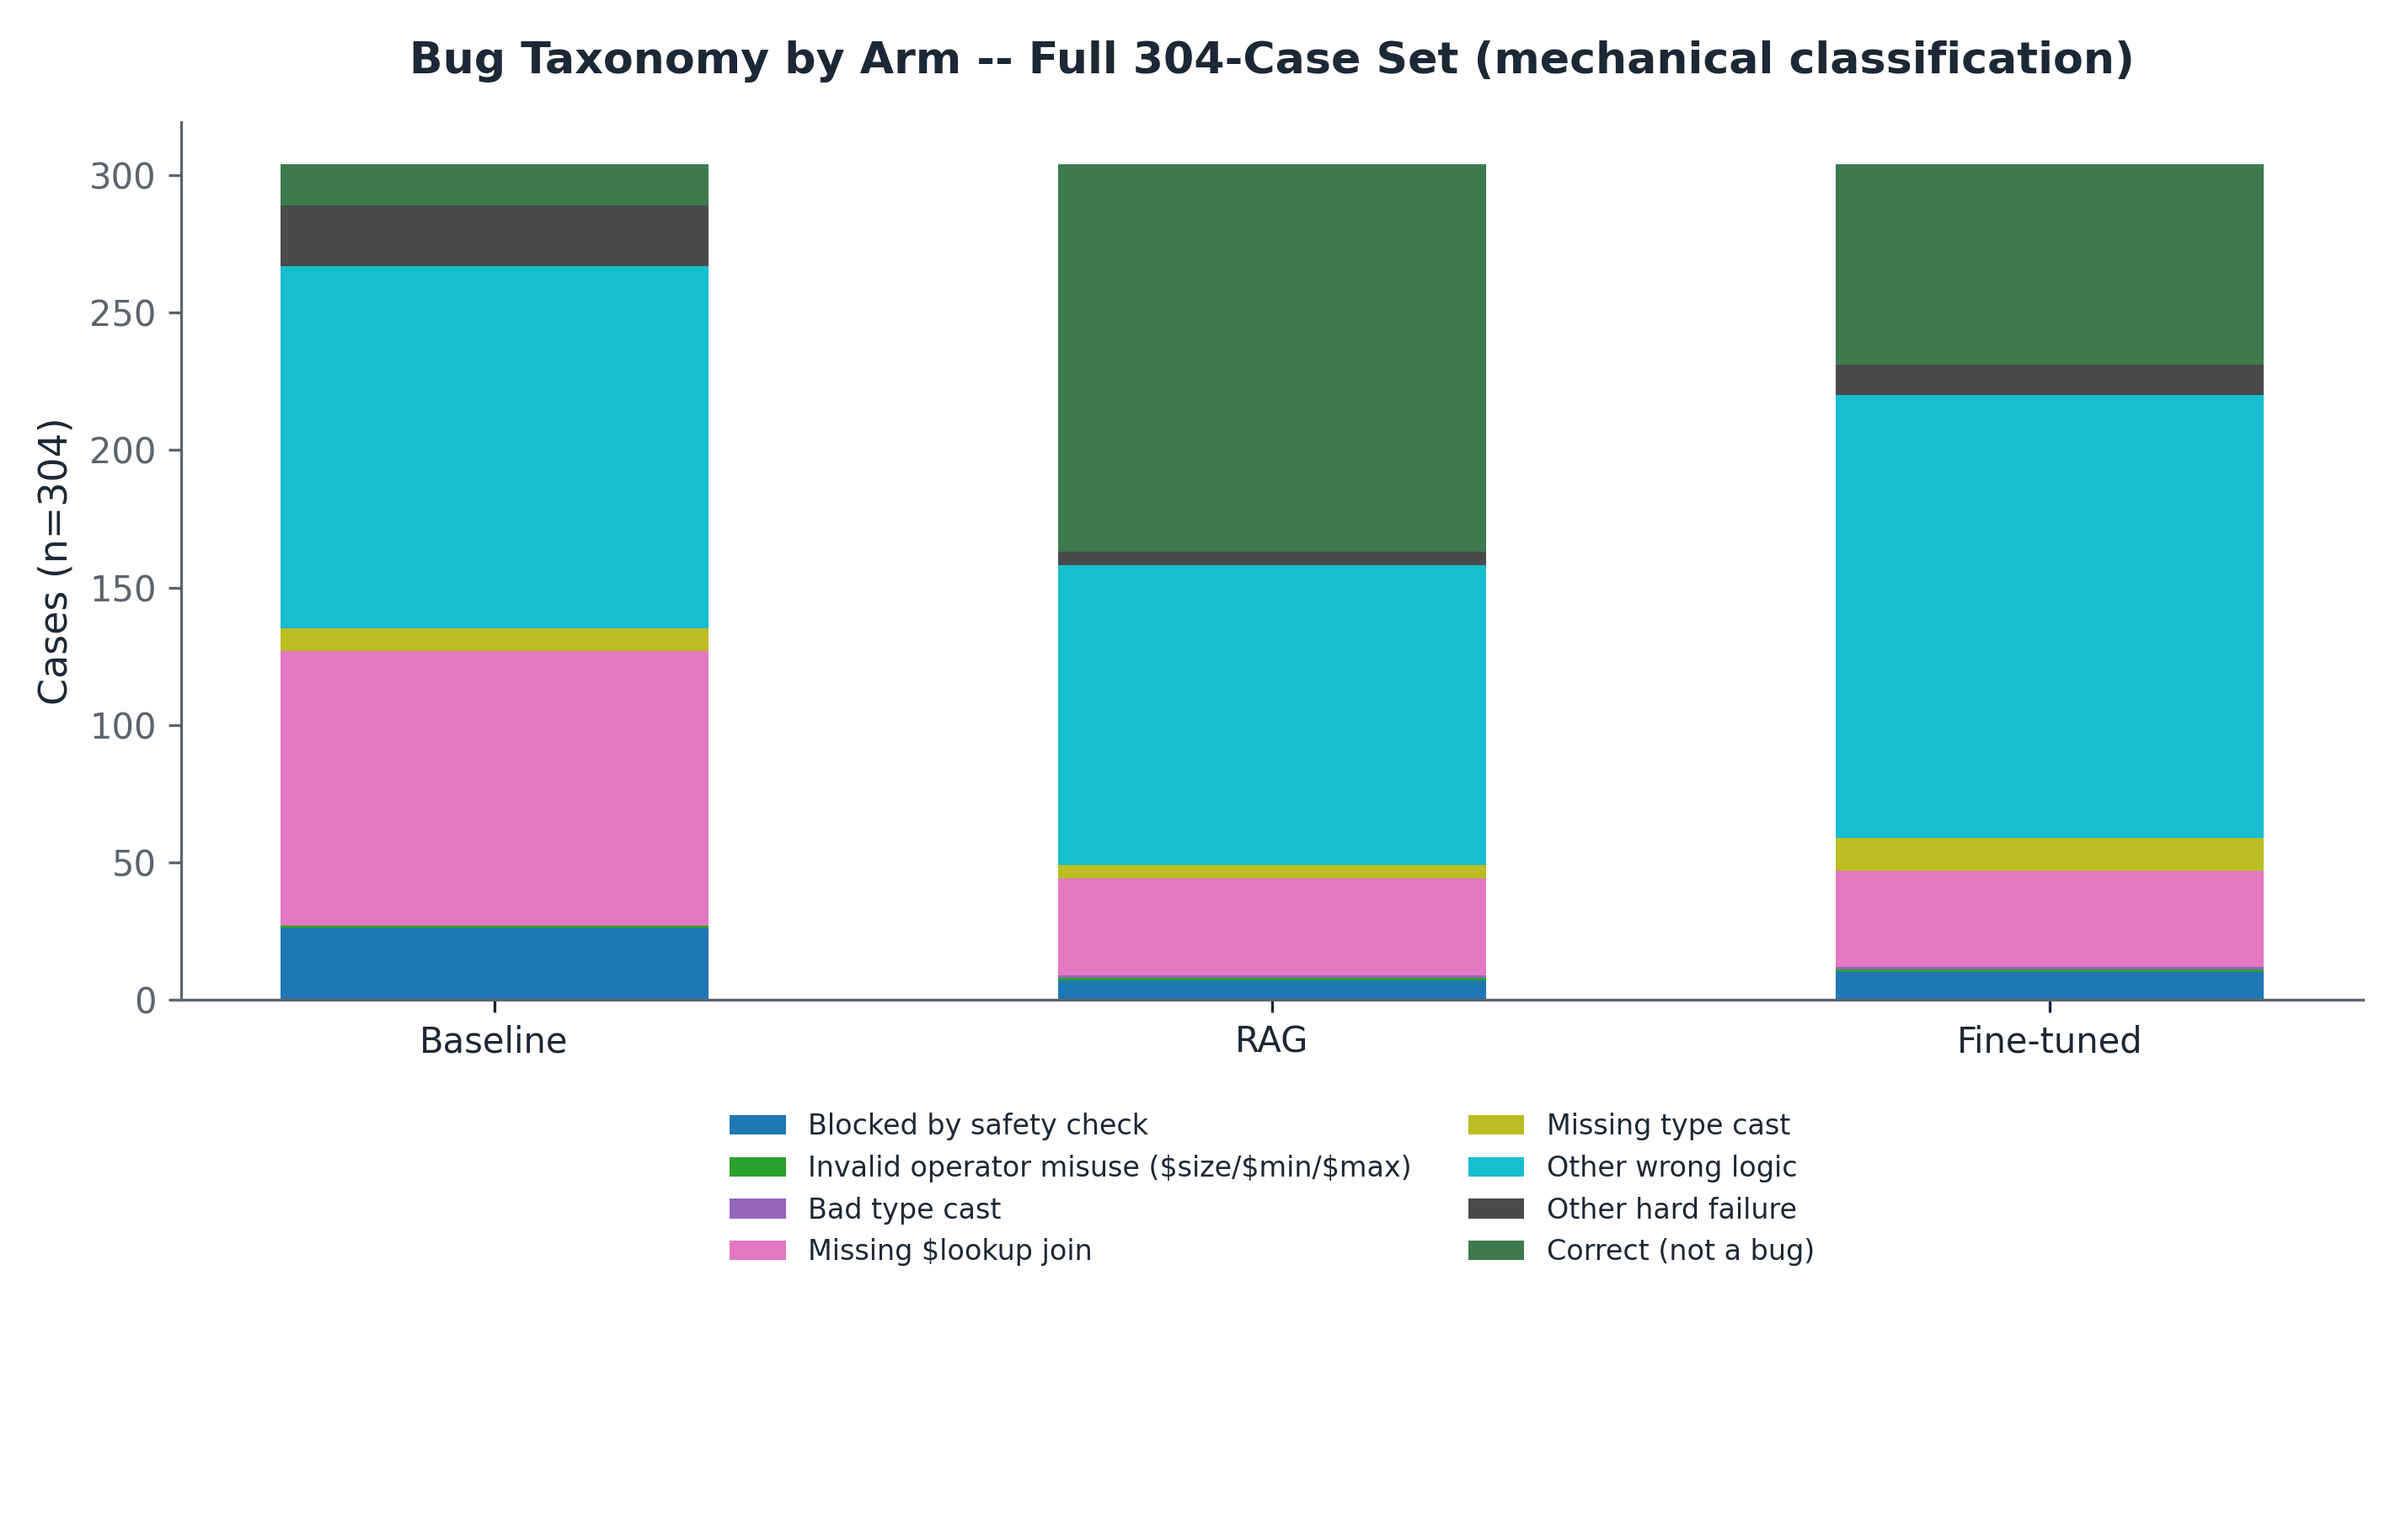
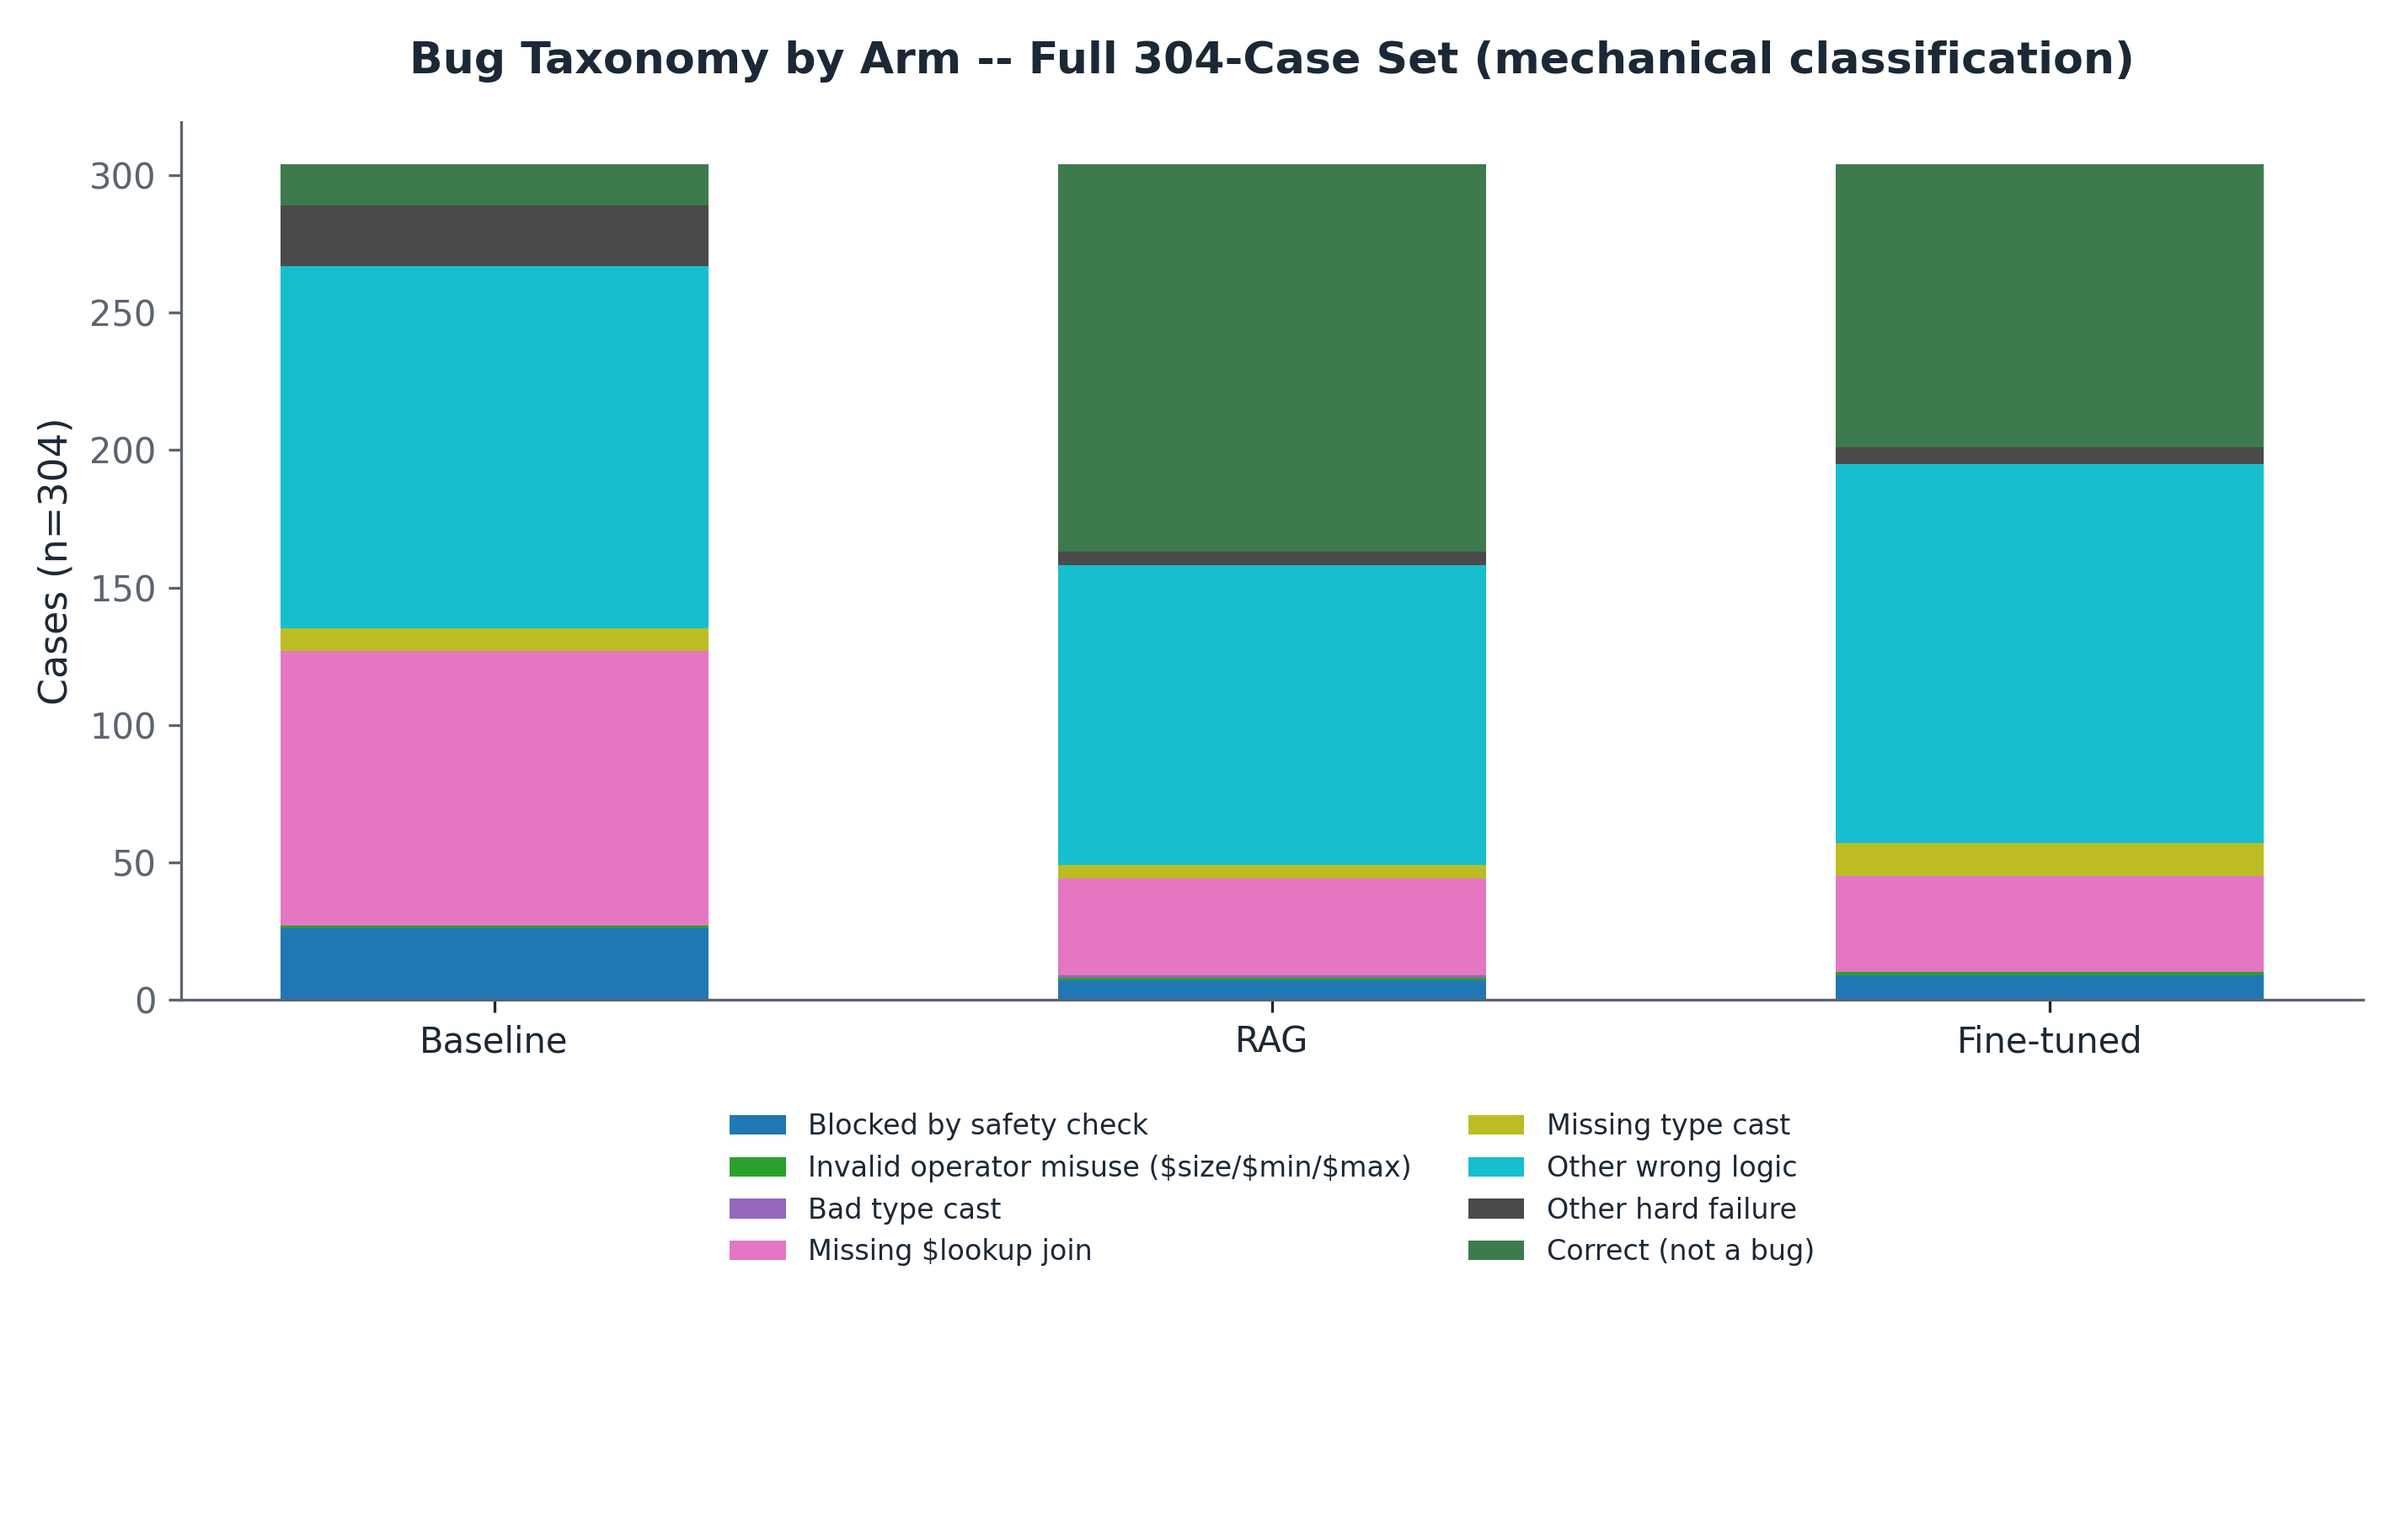
Commit the working-tree changes the README already describes
These were sitting uncommitted; the README documents all of them as done.

visualize_cross_arm_304.py: reads the 1,000-iteration epoch-parity adapter's
execution results (103/304) instead of the superseded 200-iteration run
(73/304), plus the two incidental fixes the README's Visualizations section
names -- draw_funnel()'s figure width (title clipping) and the deprecated
plt.cm.get_cmap call. The 10 regenerated PNGs are that script's output.

demo_ui/live_inference.py: the Live Inference tab called safe_eval_query()
on RAW model output, skipping normalize.py -- which every other script in
the pipeline runs before executing. A bare Mongo-shell `null` therefore hit
check_query_is_safe()'s identifier allowlist and was rejected as "unexpected
name: null": correctly refusing to eval something that is not valid Python,
but the query was never given the chance to be rewritten into valid Python
first. Now normalizes before executing, like the rest of the pipeline.

Also adds the two new figures the README's Visualizations section lists:
codebleu_vs_execution_accuracy_304.png and
finetuned_23db_1000iter_loss_and_memory.png.

Changed region(s): [[0.7495, 0.2178, 0.9681, 0.3111], [0.7807, 0.5289, 0.9368, 0.5911], [0.7807, 0.6222, 0.9368, 0.6533]]

diff --git a/visualize_cross_arm_304.py b/visualize_cross_arm_304.py
@@ -2,7 +2,7 @@
 unified-MLX-LM test set -- the same set of charts as
 visualize_cross_arm_comparison.ipynb built for the original 61-case holdout,
 recomputed on today's real data (baseline 15/304, RAG 142/304 FK-canonical,
-fine-tuned 73/304, 23-db collision-fix-retrained adapter).
+fine-tuned 103/304, 23-db epoch-parity-fixed (1000-iter) retrained adapter).
 
 Reads directly from already-scored execution-results JSON / reference_queries.json
 (never hardcodes a number) so these charts can never drift from what
@@ -39,6 +39,7 @@ the original 61-case PNGs.
 import json
 from pathlib import Path
 
+import matplotlib
 import matplotlib.pyplot as plt
 import numpy as np
 
@@ -73,7 +74,7 @@ plt.rcParams.update({
 # ---------------------------------------------------------------------------
 baseline = json.load(open(ROOT / "rag" / "data" / "qwen_baseline_testslice_execution_results_mlx.json"))
 rag = json.load(open(ROOT / "rag" / "data" / "qwen_rag_execution_results_mlx.json"))
-ft = json.load(open(ROOT / "data" / "finetuned_full304_23db_execution_results.json"))
+ft = json.load(open(ROOT / "data" / "finetuned_full304_23db_1000iter_execution_results.json"))
 ref = json.load(open(ROOT / "data" / "reference_queries.json"))
 ref_by_id = {str(r["id"]): r for r in ref}
 
@@ -119,7 +120,7 @@ print("Fine-tuned funnel:", ft_counts)
 
 
 def draw_funnel(counts, title, filename, accent_color):
-    fig, ax = plt.subplots(figsize=(6.5, 5))
+    fig, ax = plt.subplots(figsize=(8.5, 5))
     labels = [BUCKET_LABEL[b] for b in BUCKET_ORDER]
     values = [counts[b] for b in BUCKET_ORDER]
     colors = [BUCKET_COLOR[b] for b in BUCKET_ORDER]
@@ -130,7 +131,7 @@ def draw_funnel(counts, title, filename, accent_color):
                 ha="center", va="bottom", fontsize=10, color=INK, fontweight="bold")
     ax.set_ylabel("Cases (n=304)", fontsize=11)
     ax.set_ylim(0, max(values) * 1.3)
-    ax.set_title(title, fontsize=13, color=INK, fontweight="bold", pad=14)
+    ax.set_title(title, fontsize=13, color=INK, fontweight="bold", pad=14, loc="left")
     ax.spines[["top", "right"]].set_visible(False)
     ax.grid(axis="y", color=PANEL, linewidth=1, zorder=0)
     ax.set_axisbelow(True)
@@ -342,7 +343,7 @@ for tax, correct, ohf, n in [(b_tax, b_correct, b_ohf, 304), (r_tax, r_correct, 
 fig, ax = plt.subplots(figsize=(9.5, 6))
 arms3 = ["Baseline", "RAG", "Fine-tuned"]
 tax_data = [b_tax, r_tax, f_tax]
-tax_colors = plt.cm.get_cmap("tab10")(np.linspace(0, 1, len(TAXONOMY_ORDER)))
+tax_colors = matplotlib.colormaps["tab10"](np.linspace(0, 1, len(TAXONOMY_ORDER)))
 bottom = np.zeros(3)
 for i, bucket in enumerate(TAXONOMY_ORDER):
     vals = np.array([t[bucket] for t in tax_data])

diff --git a/demo_ui/live_inference.py b/demo_ui/live_inference.py
@@ -280,13 +280,32 @@ def execute_against_atlas(query: str, database: str) -> dict:
     reimplementing BSON conversion.
     """
     from execute_queries import safe_eval_query, to_json_safe  # evaluation/execute_queries.py -- same AST-gated eval
+    from normalize import normalize  # normalize.py -- rewrites Mongo-shell/JS dialect habits into valid Python
     import atlas_env
 
     logger.info("execute_against_atlas(database=%s, query=%r)", database, query[:120])
     try:
+        # Every other script in this repo runs generate -> normalize -> execute (see spot_check.py,
+        # generate_baseline_mlx.py, generate_rag_mlx.py, fine_tuning/generate_predictions_23db.py --
+        # all call normalize.py before scoring). This function was calling safe_eval_query() directly
+        # on the RAW model output, skipping that step entirely. The model sometimes writes Mongo-
+        # shell/JS-style literals (bare `null`/`true`/`false`, or camelCase methods like
+        # `countDocuments`) instead of Python's `None`/`True`/`False` / `count_documents` -- valid
+        # Mongo shell syntax, but not valid Python. check_query_is_safe() parses the query as a
+        # Python AST and rejects any identifier it doesn't recognize (its allowlist is only
+        # {"db","None","True","False","len","sorted","list","dict"}), so a bare `null` shows up as
+        # an unrecognized ast.Name and gets rejected as "unexpected name: null" -- correctly refusing
+        # to eval something that isn't safe Python, but the query was never given the chance to be
+        # rewritten into safe Python first. Fixed 2026-08-29 by normalizing before executing, exactly
+        # like the rest of the pipeline.
+        normalized_query = normalize(query)
+        if normalized_query != query:
+            logger.info("normalize() rewrote the query before execution: %r -> %r",
+                        query[:120], normalized_query[:120])
+
         client = atlas_env.connect()
         db = client[database]
-        raw_result = safe_eval_query(query, db)
+        raw_result = safe_eval_query(normalized_query, db)
         raw_type = type(raw_result).__name__
 
         # Mirror evaluation/execute_queries.py's run_model() EXACTLY: a query like
